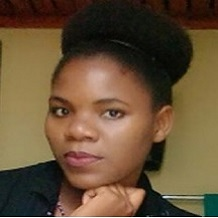
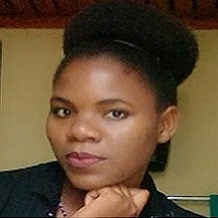
Added Readme.md and modified pictures to be 218x218

diff --git a/Readme.md b/Readme.md
@@ -1,5 +1,5 @@
 This is project number 2 for Group 4
-The project was to create an animated website display nultiple student's pictures and raise funds for students in Malawi
+The project was to create an animated website display multiple student's pictures and raise funds for students in Malawi
 The page uses-embedded javascript and mySQL
 5 tables were created in my SQL
 ![Alt text](./public/assets/images/mySQLWB.jpg)
@@ -8,3 +8,4 @@ A profile of each student and a means of donating money for tuition to assist th
 
 This code is initiated on localhost:5000/
 $ node server.js
+localhost:5000/
